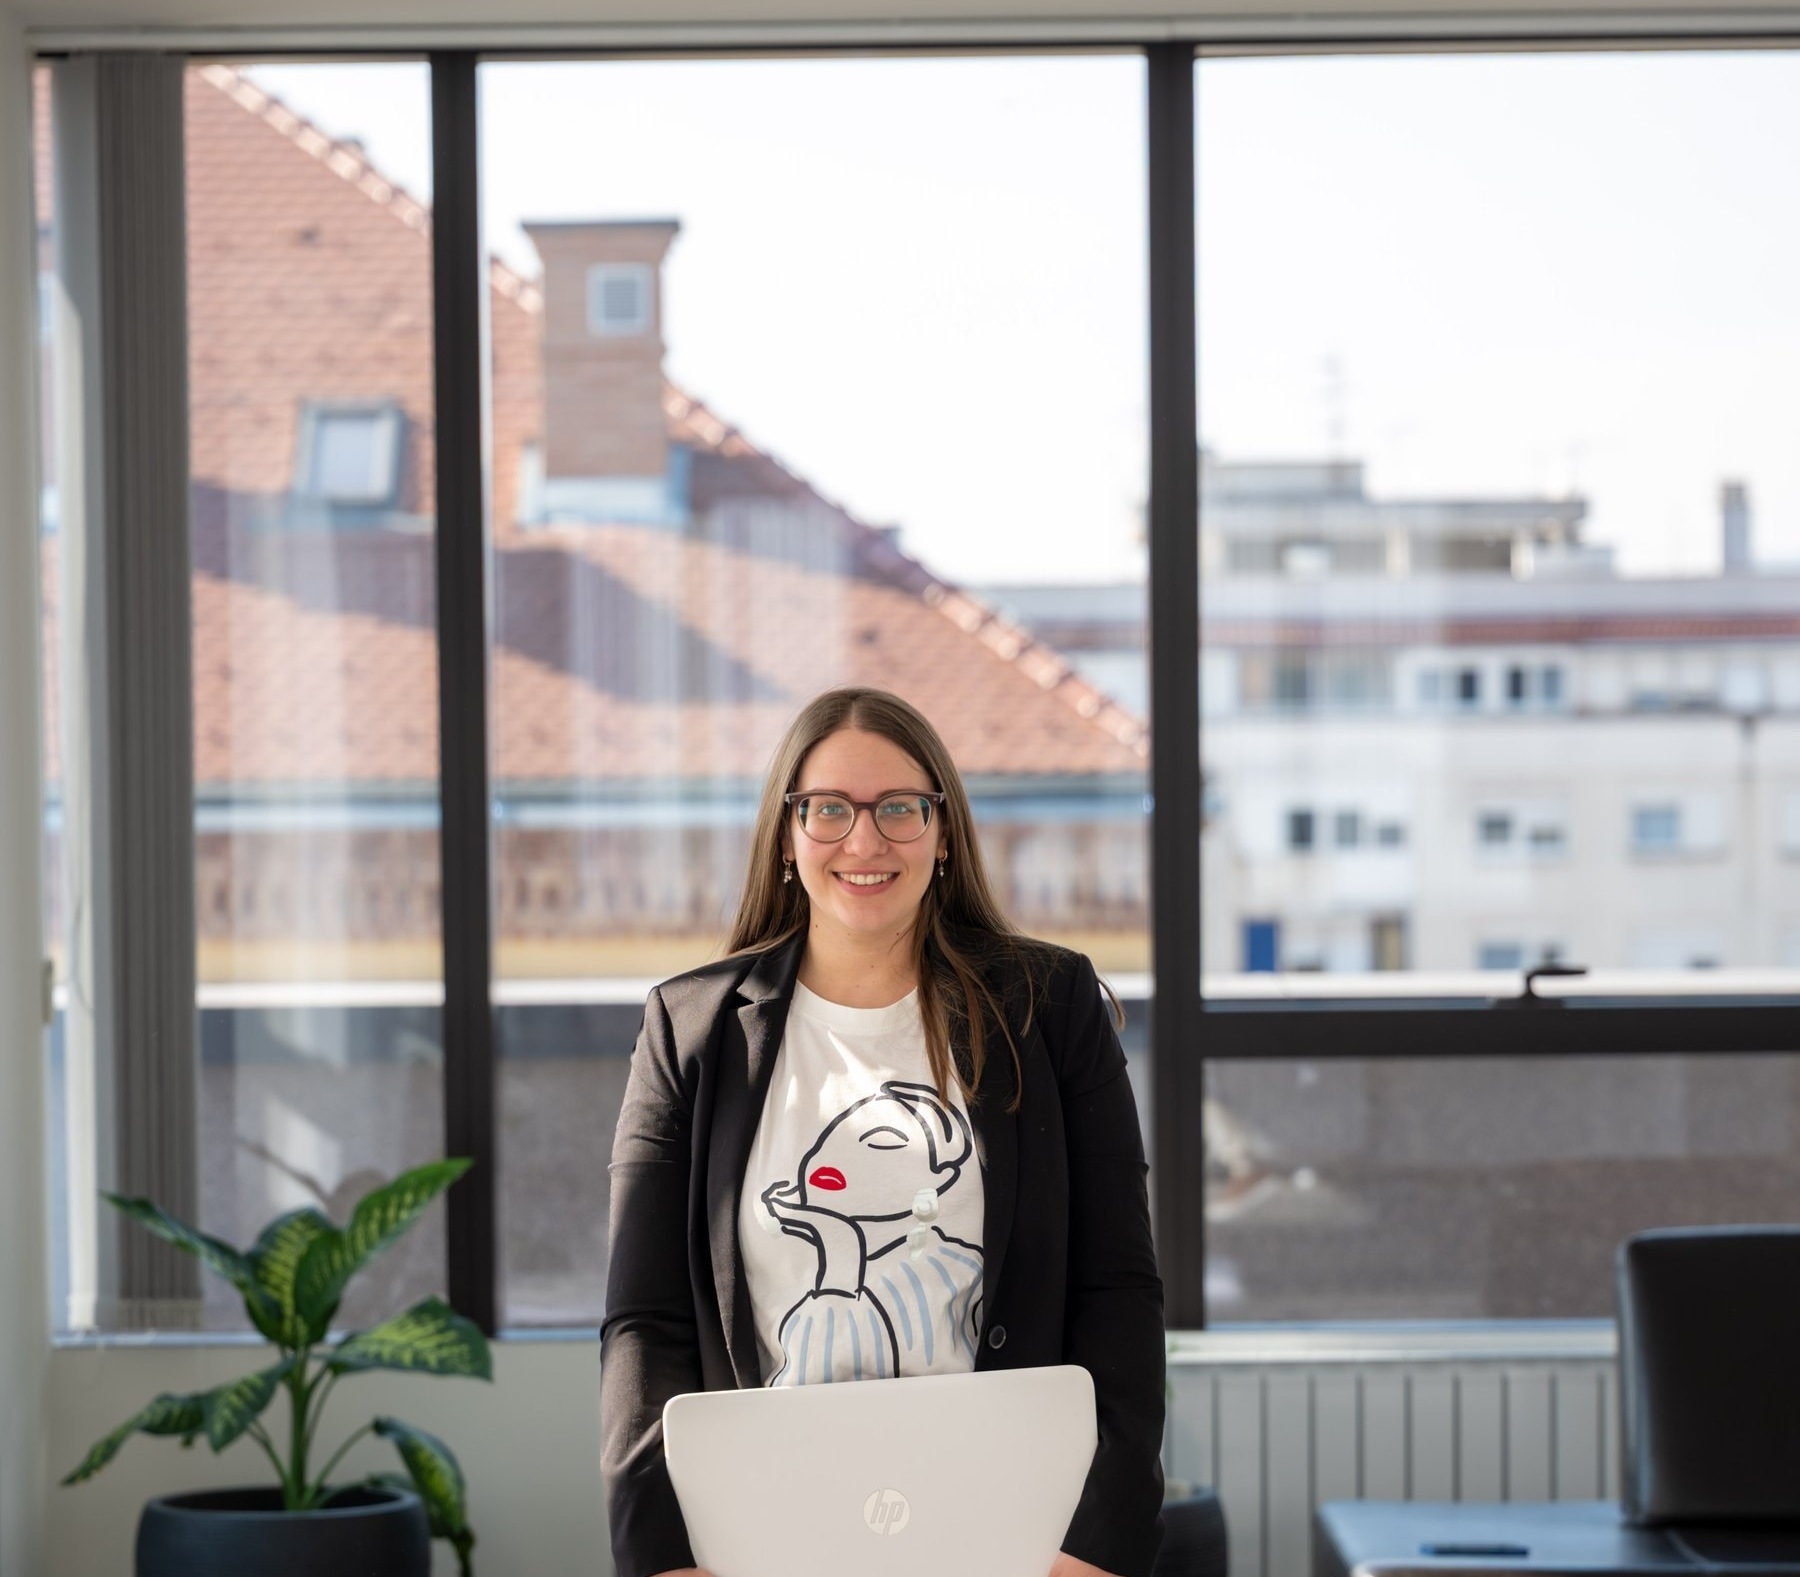
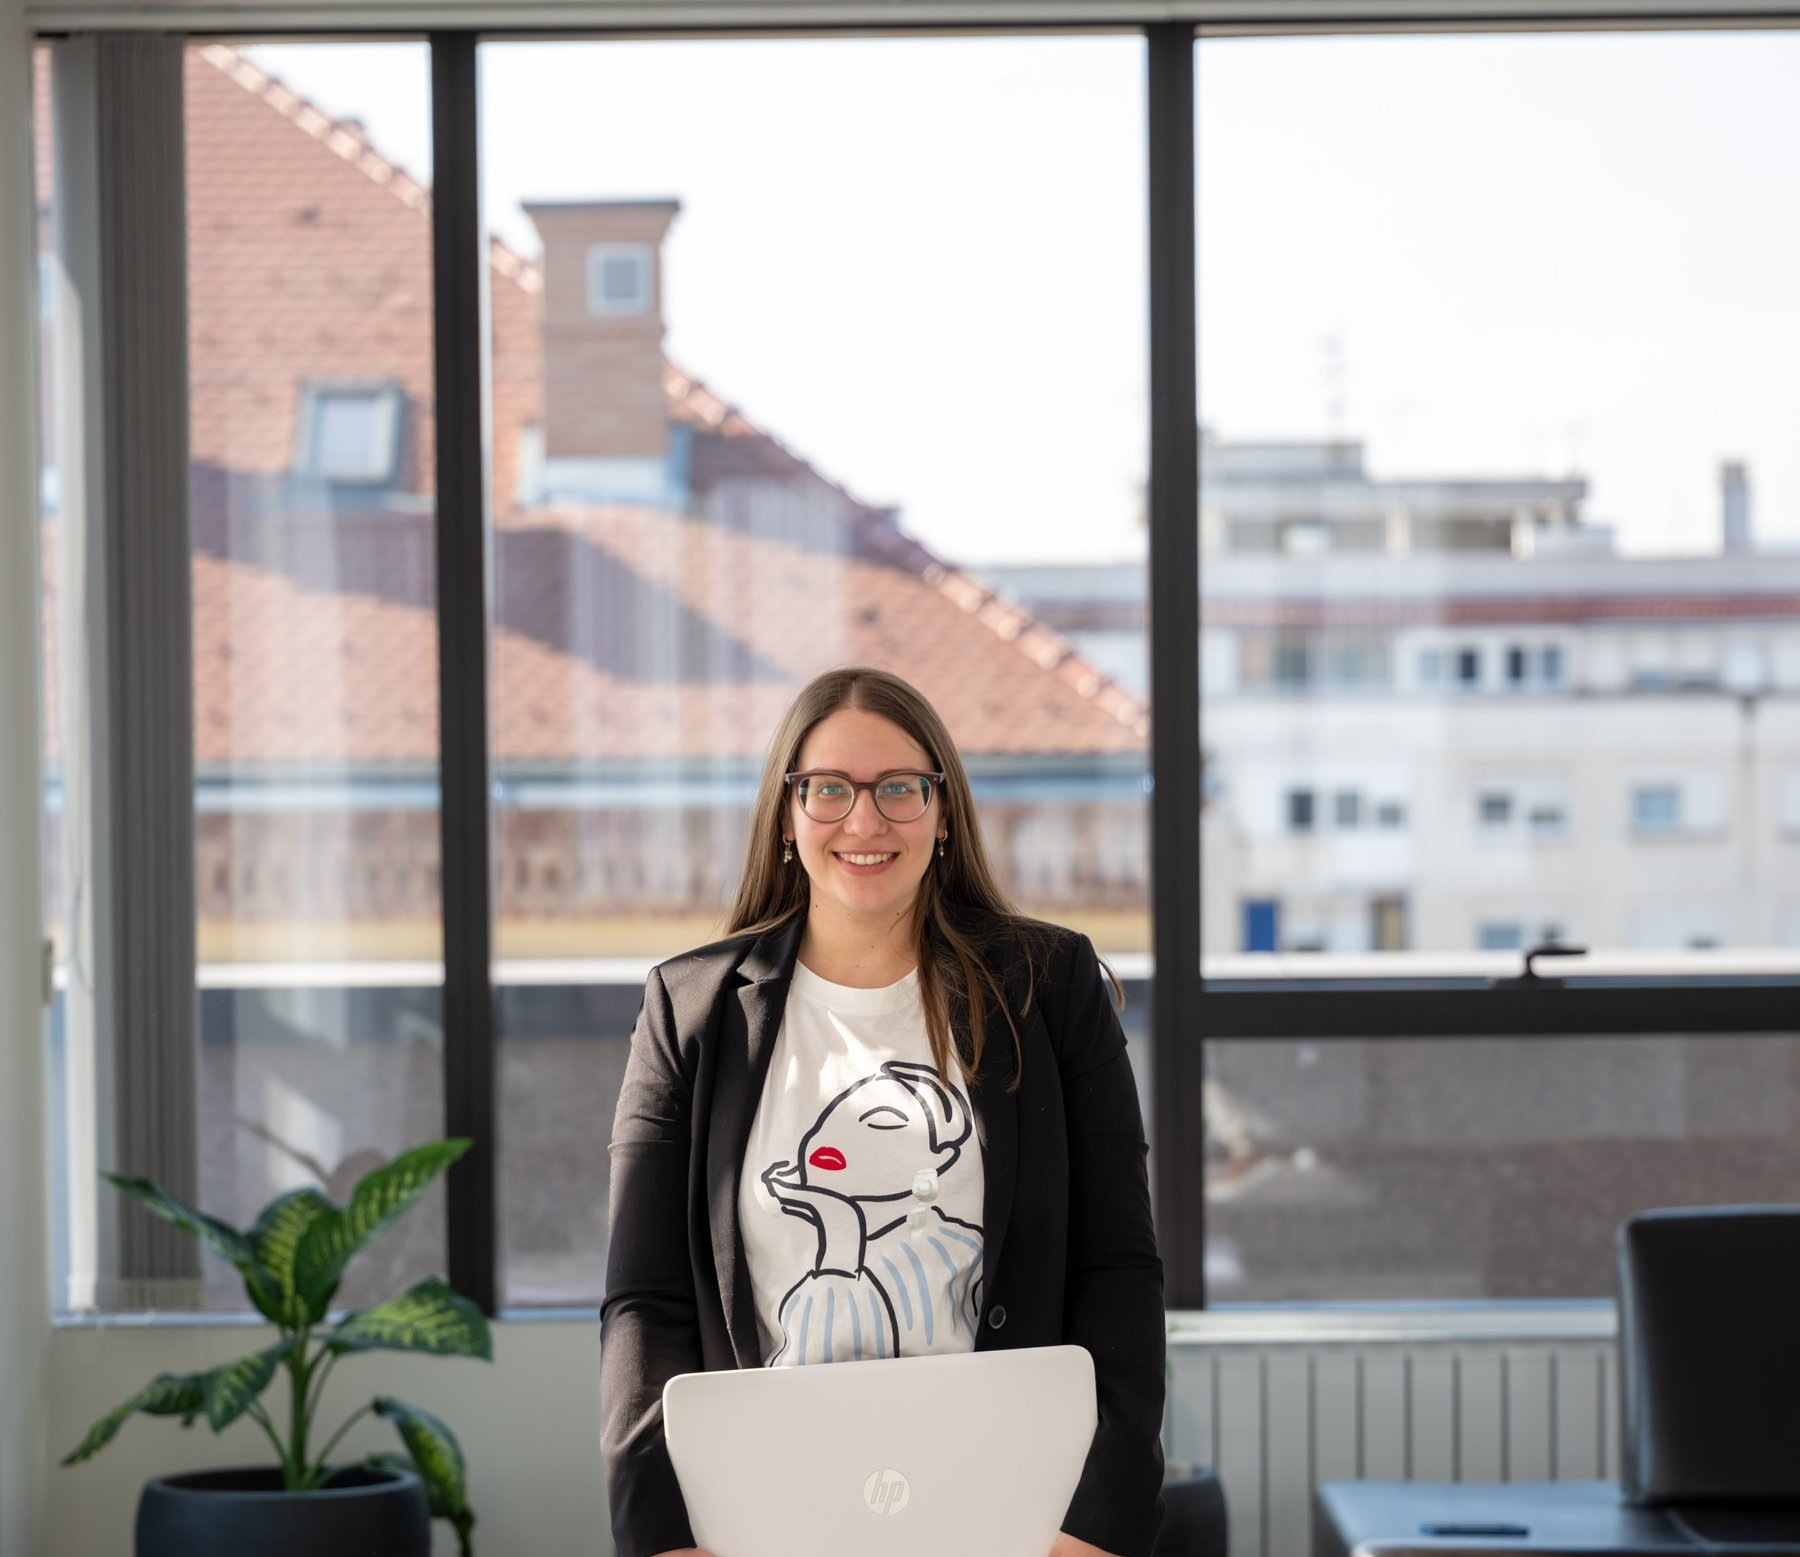
Homepage hero: height-fit subject over full-bleed photo fill.
Keep edge-to-edge cover with no letterbox bars, fit head→hips on desktop
via a centered height-matched subject layer, and soften the side blend.

diff --git a/css/main.css b/css/main.css
@@ -1165,47 +1165,57 @@ button {
   padding: 0;
 }
 
-.hero--photo-bg .hero__backdrop picture {
+/* Layer A — always full-bleed cover */
+.hero--photo-bg .hero__backdrop-fill {
+  position: absolute;
+  inset: 0;
   display: block;
   width: 100%;
   height: 100%;
+  overflow: hidden;
   margin: 0;
 }
 
-.hero--photo-bg .hero__backdrop img {
+.hero--photo-bg .hero__backdrop-fill img {
   display: block;
   width: 100%;
   height: 100%;
   max-width: none;
-  object-fit: cover; /* never contain — edge to edge */
-  object-position: center 18%;
+  object-fit: cover; /* never contain */
+  object-position: center 8%;
 }
 
-/* Light scrim for cream type — keep sides photographic, not solid bars */
+/* Layer B — desktop subject height-fit (head→hips) */
+.hero--photo-bg .hero__backdrop-subject {
+  display: none;
+}
+
+/* Light scrim for cream type — sides stay photographic */
 .hero--photo-bg .hero__backdrop::after {
   content: "";
   position: absolute;
   inset: 0;
+  z-index: 2;
   background:
     linear-gradient(
       90deg,
-      rgba(22, 16, 12, 0.32) 0%,
-      rgba(22, 16, 12, 0.12) 18%,
-      rgba(22, 16, 12, 0.04) 50%,
-      rgba(22, 16, 12, 0.12) 82%,
-      rgba(22, 16, 12, 0.32) 100%
+      rgba(22, 16, 12, 0.3) 0%,
+      rgba(22, 16, 12, 0.1) 18%,
+      rgba(22, 16, 12, 0.03) 50%,
+      rgba(22, 16, 12, 0.1) 82%,
+      rgba(22, 16, 12, 0.3) 100%
     ),
     linear-gradient(
       180deg,
-      rgba(22, 16, 12, 0.14) 0%,
+      rgba(22, 16, 12, 0.12) 0%,
       rgba(22, 16, 12, 0.03) 42%,
-      rgba(22, 16, 12, 0.36) 100%
+      rgba(22, 16, 12, 0.34) 100%
     );
 }
 
 .hero--photo-bg .hero__stage {
   position: relative;
-  z-index: 1;
+  z-index: 3;
 }
 
 .hero--photo-bg .hero__figure {
@@ -1230,16 +1240,38 @@ button {
 }
 
 @media (min-width: 960px) {
-  /* Existing compact height — not 100vh */
   .hero--photo-bg .hero__stage {
     height: clamp(42rem, 94svh, 58rem);
     min-height: clamp(42rem, 94svh, 58rem);
     max-height: none;
   }
 
-  .hero--photo-bg .hero__backdrop img {
-    /* Person-first: small air above head, open toward torso / laptop */
-    object-position: center 4%;
+  .hero--photo-bg .hero__backdrop-fill img {
+    object-position: center top;
+  }
+
+  .hero--photo-bg .hero__backdrop-subject {
+    display: block;
+    position: absolute;
+    top: 0;
+    left: 50%;
+    transform: translateX(-50%);
+    height: 100%;
+    width: auto;
+    max-width: none;
+    z-index: 1;
+    margin: 0;
+    /* Soft blend into full-bleed fill — avoids hard column / bar look */
+    -webkit-mask-image: linear-gradient(90deg, transparent 0%, #000 6%, #000 94%, transparent 100%);
+    mask-image: linear-gradient(90deg, transparent 0%, #000 6%, #000 94%, transparent 100%);
+  }
+
+  .hero--photo-bg .hero__backdrop-subject img {
+    display: block;
+    height: 100%;
+    width: auto;
+    max-width: none;
+    object-fit: fill;
   }
 }
 
@@ -1248,8 +1280,11 @@ button {
     display: none;
   }
 
-  .hero--photo-bg .hero__backdrop img {
-    /* Mobile: separate crop on full portrait */
+  .hero--photo-bg .hero__backdrop-subject {
+    display: none;
+  }
+
+  .hero--photo-bg .hero__backdrop-fill img {
     object-position: center 22%;
   }
 
@@ -1269,7 +1304,6 @@ button {
       );
   }
 
-  /* Lock height on mobile: no svh/dvh (URL bar hide/show was "zooming" the photo) */
   .hero--photo-bg .hero__stage {
     height: var(--hero-lock-h, 40rem);
     min-height: var(--hero-lock-h, 40rem);

diff --git a/css/components.css b/css/components.css
@@ -799,47 +799,57 @@
   padding: 0;
 }
 
-.hero--photo-bg .hero__backdrop picture {
+/* Layer A — always full-bleed cover */
+.hero--photo-bg .hero__backdrop-fill {
+  position: absolute;
+  inset: 0;
   display: block;
   width: 100%;
   height: 100%;
+  overflow: hidden;
   margin: 0;
 }
 
-.hero--photo-bg .hero__backdrop img {
+.hero--photo-bg .hero__backdrop-fill img {
   display: block;
   width: 100%;
   height: 100%;
   max-width: none;
-  object-fit: cover; /* never contain — edge to edge */
-  object-position: center 18%;
+  object-fit: cover; /* never contain */
+  object-position: center 8%;
 }
 
-/* Light scrim for cream type — keep sides photographic, not solid bars */
+/* Layer B — desktop subject height-fit (head→hips) */
+.hero--photo-bg .hero__backdrop-subject {
+  display: none;
+}
+
+/* Light scrim for cream type — sides stay photographic */
 .hero--photo-bg .hero__backdrop::after {
   content: "";
   position: absolute;
   inset: 0;
+  z-index: 2;
   background:
     linear-gradient(
       90deg,
-      rgba(22, 16, 12, 0.32) 0%,
-      rgba(22, 16, 12, 0.12) 18%,
-      rgba(22, 16, 12, 0.04) 50%,
-      rgba(22, 16, 12, 0.12) 82%,
-      rgba(22, 16, 12, 0.32) 100%
+      rgba(22, 16, 12, 0.3) 0%,
+      rgba(22, 16, 12, 0.1) 18%,
+      rgba(22, 16, 12, 0.03) 50%,
+      rgba(22, 16, 12, 0.1) 82%,
+      rgba(22, 16, 12, 0.3) 100%
     ),
     linear-gradient(
       180deg,
-      rgba(22, 16, 12, 0.14) 0%,
+      rgba(22, 16, 12, 0.12) 0%,
       rgba(22, 16, 12, 0.03) 42%,
-      rgba(22, 16, 12, 0.36) 100%
+      rgba(22, 16, 12, 0.34) 100%
     );
 }
 
 .hero--photo-bg .hero__stage {
   position: relative;
-  z-index: 1;
+  z-index: 3;
 }
 
 .hero--photo-bg .hero__figure {
@@ -864,16 +874,38 @@
 }
 
 @media (min-width: 960px) {
-  /* Existing compact height — not 100vh */
   .hero--photo-bg .hero__stage {
     height: clamp(42rem, 94svh, 58rem);
     min-height: clamp(42rem, 94svh, 58rem);
     max-height: none;
   }
 
-  .hero--photo-bg .hero__backdrop img {
-    /* Person-first: small air above head, open toward torso / laptop */
-    object-position: center 4%;
+  .hero--photo-bg .hero__backdrop-fill img {
+    object-position: center top;
+  }
+
+  .hero--photo-bg .hero__backdrop-subject {
+    display: block;
+    position: absolute;
+    top: 0;
+    left: 50%;
+    transform: translateX(-50%);
+    height: 100%;
+    width: auto;
+    max-width: none;
+    z-index: 1;
+    margin: 0;
+    /* Soft blend into full-bleed fill — avoids hard column / bar look */
+    -webkit-mask-image: linear-gradient(90deg, transparent 0%, #000 6%, #000 94%, transparent 100%);
+    mask-image: linear-gradient(90deg, transparent 0%, #000 6%, #000 94%, transparent 100%);
+  }
+
+  .hero--photo-bg .hero__backdrop-subject img {
+    display: block;
+    height: 100%;
+    width: auto;
+    max-width: none;
+    object-fit: fill;
   }
 }
 
@@ -882,8 +914,11 @@
     display: none;
   }
 
-  .hero--photo-bg .hero__backdrop img {
-    /* Mobile: separate crop on full portrait */
+  .hero--photo-bg .hero__backdrop-subject {
+    display: none;
+  }
+
+  .hero--photo-bg .hero__backdrop-fill img {
     object-position: center 22%;
   }
 
@@ -903,7 +938,6 @@
       );
   }
 
-  /* Lock height on mobile: no svh/dvh (URL bar hide/show was "zooming" the photo) */
   .hero--photo-bg .hero__stage {
     height: var(--hero-lock-h, 40rem);
     min-height: var(--hero-lock-h, 40rem);

diff --git a/index.html b/index.html
@@ -27,7 +27,7 @@
       href="https://fonts.googleapis.com/css2?family=Inter:wght@400;500;600&display=swap"
       rel="stylesheet"
     />
-    <link rel="stylesheet" href="css/main.css?v=hero-fullbleed-cover-fix-1" />
+    <link rel="stylesheet" href="css/main.css?v=hero-fullbleed-cover-fix-3" />
     <script>
       document.documentElement.classList.add("js");
     </script>
@@ -79,27 +79,37 @@
       <!-- 01 HERO -->
       <section class="hero hero--composition hero--photo-bg" aria-labelledby="hero-title">
         <div class="hero__backdrop" aria-hidden="true">
-          <picture>
-            <!-- Desktop: photographic medium band (head→hips), full-bleed cover — no letterbox -->
+          <!-- Full-bleed photographic fill (cover, edge to edge) -->
+          <picture class="hero__backdrop-fill">
             <source
               media="(min-width: 960px)"
-              srcset="assets/images/monika-hero-office-desktop.webp?v=cover-fix-1"
+              srcset="assets/images/monika-hero-office-desktop.webp?v=cover-fix-3"
               type="image/webp"
             />
             <source
               media="(min-width: 960px)"
-              srcset="assets/images/monika-hero-office-desktop.jpg?v=cover-fix-1"
+              srcset="assets/images/monika-hero-office-desktop.jpg?v=cover-fix-3"
               type="image/jpeg"
             />
-            <!-- Mobile: full portrait + separate object-position -->
-            <source srcset="assets/images/monika-hero-office-v2.webp?v=cover-fix-1" type="image/webp" />
+            <source srcset="assets/images/monika-hero-office-v2.webp?v=cover-fix-3" type="image/webp" />
             <img
-              src="assets/images/monika-hero-office-v2.jpg?v=cover-fix-1"
+              src="assets/images/monika-hero-office-v2.jpg?v=cover-fix-3"
               alt=""
               width="1800"
               height="2699"
               decoding="async"
               fetchpriority="high"
+            />
+          </picture>
+          <!-- Desktop: height-fit medium band so head→hips stays intact -->
+          <picture class="hero__backdrop-subject">
+            <source srcset="assets/images/monika-hero-office-desktop.webp?v=cover-fix-3" type="image/webp" />
+            <img
+              src="assets/images/monika-hero-office-desktop.jpg?v=cover-fix-3"
+              alt=""
+              width="1800"
+              height="1570"
+              decoding="async"
             />
           </picture>
         </div>
